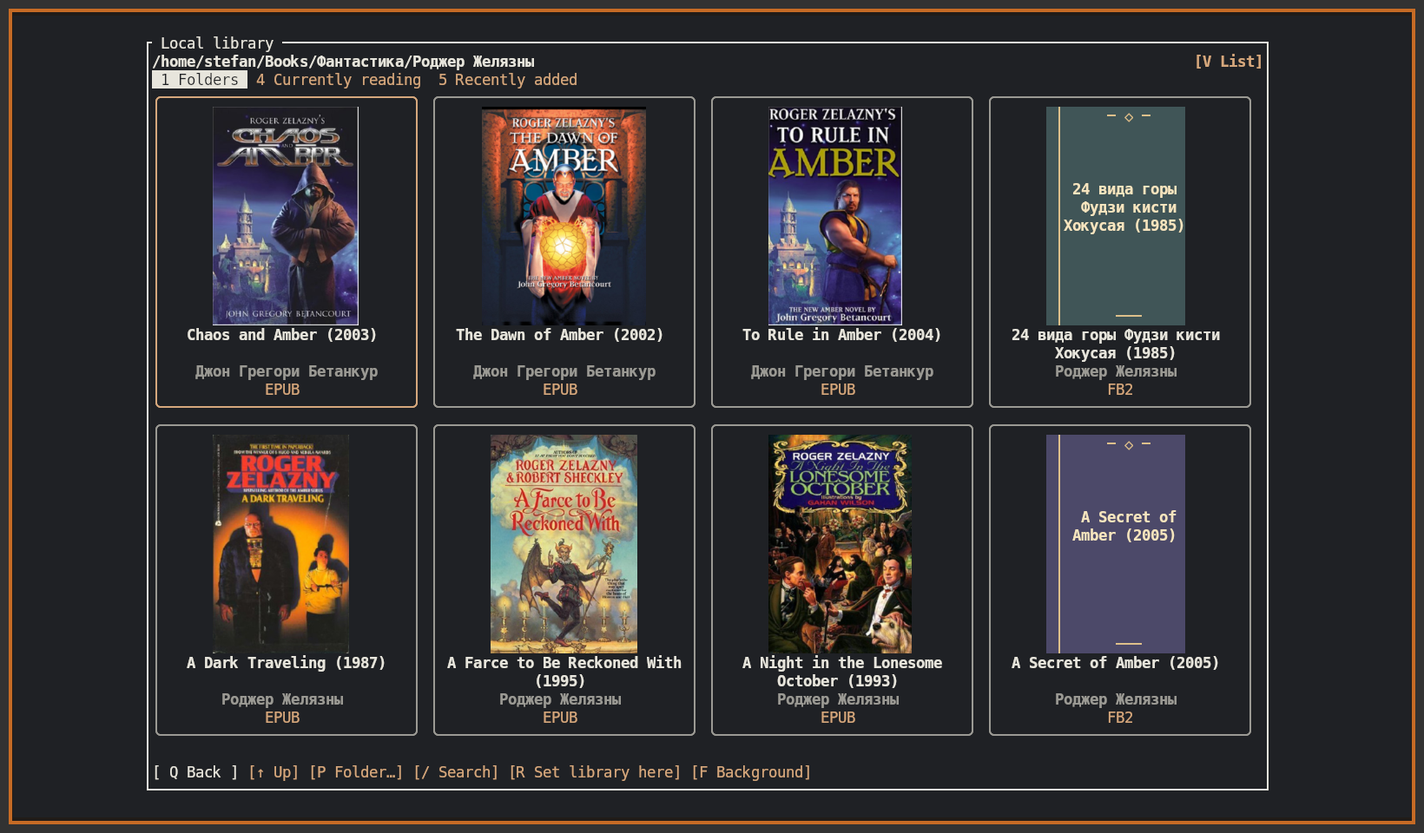
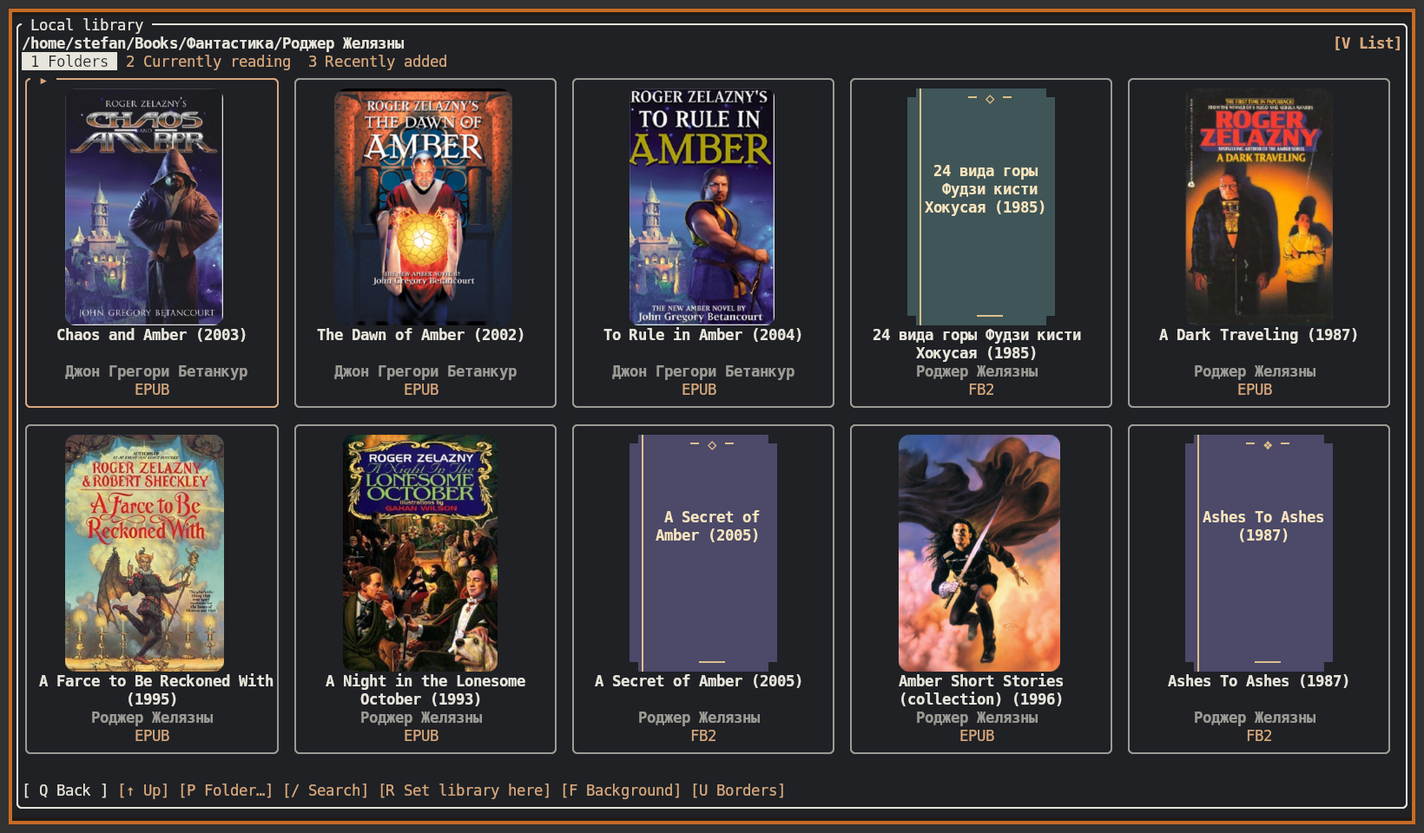
Publish English and Russian setup and reading guides with verified Kitty screens

diff --git a/README.md b/README.md
@@ -1,80 +1,153 @@
 # botui
 
-Терминальная читалка для **BookOrbit, OPDS и локальной папки**. Интерфейс на английском; названия книг, текст и оглавление остаются на языке издания.
+**English** · [Русский](README.ru.md)
 
-![Разворот с оглавлением в Kitty](docs/images/reader-contents.png)
+Read a book from your BookOrbit account, an OPDS catalog or a local folder in the terminal. EPUB and FB2 reflow into one page or a two-page spread. PDF and DjVu retain their original pages. Use the keyboard, click a cover or scroll with the mouse.
 
-## Запуск
+![BookOrbit dashboard with reading progress, recent additions and book covers in Kitty](docs/images/dashboard.png)
 
-```sh
-cargo build --release --locked -p botui
-./target/release/botui                         # выбрать источник мышью или клавиатурой
-./target/release/botui --library "$HOME/Books"  # запомнить корень локальной полки
-./target/release/botui --local                 # вернуться в сохранённую папку
-./target/release/botui examples/first-light.fb2
-./target/release/botui --server https://books.example.org
-./target/release/botui --opds https://books.example.org/opds
-```
+[Installation](#installation) · [First run](#first-run) · [BookOrbit](#bookorbit) · [Reading](#reading) · [Configuration](#configuration) · [Development](#development)
 
-Без заданного пути **Local library** сначала ищет сохранённую папку, затем `~/Books` и, наконец, текущую папку. **P Folder…** позволяет вставить путь; **R Set library here** запоминает папку, в которую вошли вручную. Приложение не меняет исходные книги. В `--opds` укажите адрес самой ленты, в `--server` — корень установки BookOrbit. Если mise не выбрал Cargo, для сборки можно использовать установленный через rustup `~/.cargo/bin/cargo`.
+## Installation
 
-## Полка
+Build from the repository root on Linux. You need Rust 1.99.1, a C compiler and a linker. The release build produces one executable for the host architecture at `target/release/botui`. The helpers for scanned documents are listed below.
 
-![Сетка с обложками и запасным переплётом в Kitty](docs/images/bookorbit-shelf.png)
+### With mise
 
-На полке BookOrbit **/** ищет по всему каталогу по названию или автору. **1 / 2 / 3** открывают все книги, библиотеки и коллекции; **4 Currently reading** — начатые книги с процентом; **5 Recently added** — последние поступления. Пустые личные коллекции не мешают открыть библиотеку. В режиме списка формат, название, автор и процент занимают выровненные колонки. **V** переключает список и сетку. Колесо, стрелки и PgUp / PgDn перемещают выбор; следующая порция данных подгружается автоматически. Enter или щелчок открывает карточку.
-
-В локальной папке **/** ищет по именам файлов и вложенных каталогов. **4** показывает историю выбранной библиотеки с процентами, **5** — книги по дате создания файла (если она недоступна, по дате изменения). В сетке используются обложки из EPUB/FB2 и первая страница PDF/DjVu. Если обложки нет, клиент рисует собственный цветной переплёт по принципу BookOrbit. В прямом Kitty отображаются растровые изображения; в обычном tmux или Alacritty — цветные полублоки.
-
-**BookOrbit:** пароль и токены остаются в памяти; обычный выход закрывает серверную сессию. **OPDS:** поддерживаются каталоги 1.x/Atom, независимый HTTP Basic через HTTPS, подразделы, автоматическая подгрузка, обложки, выбор файла и поиск, если каталог объявил его через Atom-шаблон или OpenSearch. Для обоих источников **D Save offline** сохраняет выбранное издание. Оно доступно с главного экрана через **Offline downloads** даже без входа.
-
-## Чтение
-
-| Действие | Клавиши |
-|---|---|
-| Одна страница / разворот, перелистнуть | 1 / 2; ← / →, PgUp / PgDn, колесо |
-| Открыть меню или вернуться к книге | M, Esc или щелчок по странице |
-| Скрыть интерфейс / вернуть левое оглавление | Z; в обычном режиме Tab переводит фокус между книгой и оглавлением |
-| Оглавление в отдельном окне; поиск по тексту | O; / |
-| Цвета; сплошной фон; поля текста | T; F; [ / ] |
-| Поставить или снять закладку; открыть закладки | B; G |
-| Заметка к текущему месту; список заметок; экспорт Markdown | N; A; E |
-| Ссылки, сноски и иллюстрации в EPUB/FB2 | I |
-| Вернуться после перехода по тексту / повторить переход | , / . |
-| Статистика этой книги на устройстве: число сеансов и время с открытой книгой | S |
-| Закрыть книгу | Q |
-
-Для EPUB/FB2 обе колонки разворота переразбиваются при изменении полей. В узком окне остаётся одна колонка. EPUB использует издательское оглавление EPUB 2 (NCX) или EPUB 3 (nav), при его отсутствии — заголовки. В оцифрованных книгах читалка может объединять последовательности печатных строк и разорванные слова. Поиск находит восстановленные слова, а исходные адреса для закладок сохраняются. В **I Links & illustrations** можно показать вложенную иллюстрацию, прочитать сноску, перейти по ссылке на главу или явно открыть сайт. Картинки открываются отдельно от текста и не занимают место в развороте. Для книг, где каждый исходный перенос важен, настройте `preserve_printed_lines`.
-
-**PDF и DjVu** открываются как настоящие страницы. В карточке формата нажмите **P Read**. Поддержаны разворот, увеличение (+ / −), сдвиг увеличенной страницы стрелками, переход по оглавлению или номеру страницы, поиск **/** по встроенному текстовому слою (**N** — следующее совпадение). Для перехода к номеру страницы нажмите **O**. **B / G** ставят и открывают локальные закладки, **I / A / E** добавляют заметку к странице, показывают список и экспортируют его в Markdown. **S** показывает статистику этой книги. OCR нет. Поля текста не меняют исходную вёрстку скана. В символьном терминале мелкий текст лучше открыть в графическом Kitty или через **X External viewer** в карточке локального файла. Для PDF нужны Poppler (`pdfinfo`, `pdftoppm`, для поиска `pdftotext`) либо Python 3 с Poppler GI и Cairo; для DjVu — DjVuLibre (`djvused`, `ddjvu`, для поиска `djvutxt`).
-
-## Настройки и данные
-
-Файл настроек создаётся при первом запуске: `$XDG_CONFIG_HOME/botui/config.json` (обычно `~/.config/botui/config.json`). Например:
-
-```json
-{
-  "library_root": "/home/stefan/Books",
-  "zen": false,
-  "local_grid": true,
-  "theme": "terminal",
-  "opaque_background": true,
-  "preserve_printed_lines": false
-}
-```
-
-Палитра терминала или схемы BookOrbit выбираются в **T Theme**. Параметр фона задаёт цвет ячеек; прозрачность, наложенная композитором на окно целиком, остаётся под управлением композитора. Адрес, имя пользователя и вид серверной полки находятся в `connection.json` рядом с основным конфигом. Символьные команды текстовой читалки переопределяются в `reader-keys.json`, например `{"n":"next","p":"previous","о":"contents"}`.
-
-Позиция, закладки и заметки на устройстве привязаны к содержимому файла. Для BookOrbit отдельно читаются позиция и личные текстовые закладки выбранного файла. Место чтения записывается по точному адресу, если со времени открытия оно не изменилось на сервере. Закладки без подходящего адреса остаются в списке с названием. При чтении скачанной книги новый прогресс ждёт следующего входа под тем же аккаунтом; конфликт не перезаписывает чужую позицию. Изменения OPDS и личные заметки остаются локальными. Постоянные загрузки и экспорт заметок находятся в `$XDG_DATA_HOME/botui/{downloads,exports}`; история чтения — в `$XDG_STATE_HOME/botui`.
-
-## Проверки
+The project includes a pinned Rust toolchain and build tasks. From a fresh checkout, run
 
 ```sh
-cargo fmt --check
-cargo clippy --workspace --all-targets --locked -- -D warnings
-cargo test --workspace --locked -- --include-ignored
-cargo build --workspace --locked
-for part in reader library shelf sources progress offline resources; do python3 "scripts/smoke-$part.py" || exit 1; done
+mise trust
+mise install
+mise run build
+./target/release/botui --help
+mise run install
 ```
 
-Сценарии используют частные tmux-сокеты, временные настройки и локальные HTTP-стенды. Для генерации тестового DjVu нужны также `c44` и `djvm`. Подробнее: [устройство](docs/architecture.md) и [проверенные сценарии и открытые пункты](docs/checklist.md).
+The last command installs the executable in `~/.local/bin`. Add that directory to your shell’s `PATH` to run `botui` from anywhere. To use another installation prefix, run `PREFIX=/path/to/prefix mise run install`. After updating the checkout, run the install task again.
+
+### With Cargo
+
+With Rust installed through rustup, the checked-in `rust-toolchain.toml` selects the compiler. To install the release executable directly into the same user bin directory, run
+
+```sh
+cargo install --path crates/app --locked --root "$HOME/.local"
+```
+
+For a build that stays in the checkout, use `cargo build --release --locked -p botui` and run `./target/release/botui`.
+
+### Document and terminal support
+
+| Format | Reading | Runtime tools |
+| --- | --- | --- |
+| EPUB, FB2 | Reflow, chapters, text search, links, footnotes and embedded illustrations | Built in |
+| PDF | Original pages, spreads, zoom, pan and text-layer search | Poppler utilities (`pdfinfo`, `pdftoppm`, `pdftotext`) or Python 3 with Poppler GI and Cairo |
+| DjVu | Original pages, spreads, zoom, pan and text-layer search | DjVuLibre (`djvused`, `ddjvu`, `djvutxt`) |
+
+Direct Kitty supports raster covers and page images. Terminals using the character-cell fallback, including ordinary tmux sessions, display color half-blocks. A graphics-capable terminal gives scanned text more detail. Image-only scans can be read visually. Search requires an existing text layer.
+
+## First run
+
+```sh
+botui                                      # choose a source
+botui --library "$HOME/Books"              # remember a local library folder
+botui --local                              # reopen the saved folder
+botui "./examples/first-light.fb2"         # open a file directly
+botui --server https://books.example.org   # BookOrbit installation root
+botui --opds https://books.example.org/opds
+botui --config-path                        # create or locate the config file
+```
+
+On the start screen, move the selection to see the description and controls for that source. Press **B** for BookOrbit, **L** for the local library, **P** for OPDS or **D** for offline downloads. Enter and a click also open the selection.
+
+![Source chooser with its keyboard guide](docs/images/start.png)
+
+**Local library** uses your saved root, then `~/Books`, then the current directory. Click **P Folder…** to paste a path. **R Set library here** remembers the folder currently on screen. **/** searches file and folder names recursively. **2** opens reading history with percentages and **3** shows recent files by creation time, falling back to modification time.
+
+## BookOrbit
+
+Choose **Connect to BookOrbit** to sign in. The dashboard shows continue reading, recent additions and discovery shelves. Reading streaks, yearly goals, challenges and Reading DNA appear when the server supplies those widgets. Select a book to choose its file. Use **0** to revisit and refresh the dashboard.
+
+| Key | Section | Key | Section |
+| --- | --- | --- | --- |
+| 0 | Dashboard | 4 | Libraries |
+| 1 | All books | 5 | Collections |
+| 2 | Currently reading | 6 | Authors |
+| 3 | Recently added | 7 | Series |
+
+**Authors** and **Series** show account-wide totals and the number of books in each entry. Open an author to see their books, or a series to read its volumes in server order. **/** searches the current directory in these two sections. On book shelves it searches the whole catalog by title or author, including books beyond the loaded rows.
+
+**V** switches between cover grid and list. **Tab / Shift+Tab** change sections in display order. Arrows, the wheel and Page Up / Page Down navigate a shelf. More items load as you scroll. Enter or a click opens the selection. **Esc** goes back.
+
+To keep an edition on this device, choose **D Save offline** on its file list. Open it again through **Offline downloads**. The next sign-in to the same account can send offline progress if the server position still matches. Text bookmarks come from the selected BookOrbit file. A bookmark whose location cannot be resolved stays visible by name.
+
+**OPDS** accepts an Atom catalog URL and optional HTTP Basic credentials over HTTPS. Follow navigation feeds, search when the catalog advertises Atom search or OpenSearch, and select a downloadable edition. OPDS reading positions and notes are stored locally.
+
+## Reading
+
+![Two text pages and the live page width and column gap controls](docs/images/reader-layout.png)
+
+| EPUB and FB2 action | Controls |
+| --- | --- |
+| Turn pages | Left / Right, Page Up / Page Down, mouse wheel |
+| One page / facing pages | **1 / 2** |
+| Open menu | **M**, Esc or click the page |
+| Adjust page width and column gap with a live preview | **W**, then click **− / +** on either row |
+| Adjust without opening the panel | **[** wider page, **]** narrower page. **{** smaller gap, **}** larger gap |
+| Zen mode / contents sidebar | **Z**. In the normal view, **Tab** changes focus |
+| Contents / search / links and illustrations | **O / slash / I** |
+| Theme / opaque background / border style | **T / F / U** |
+| Toggle bookmark / open bookmarks | **B / G** |
+| Write a passage note / list notes / export Markdown | **N / A / E** |
+| Jump back / forward | **, / .** |
+| Book statistics / close | **S / Q** |
+
+Width and spacing are in terminal cells. Extra room sits outside the spread. A narrow window shows one page. Resize or adjust either value while reading to reflow both pages around the current text position. In scanned EPUB/FB2 text, botui can join printed line breaks and split words. Set `preserve_printed_lines = true` for editions where those breaks are intentional.
+
+For **PDF and DjVu**, use **P Read pages** on the file card, **1 / 2** for a page or spread and **+ / −** to zoom. Arrows pan while zoomed. **O** opens page navigation, **/** finds text and **N** advances to the next match. **B / G** manage page bookmarks and **I / A / E** manage and export page notes. The text reader’s width settings apply to reflowable books.
+
+## Configuration
+
+Run `botui --config-path` to print the exact path. The default is `~/.config/botui/config.toml`. The same TOML file holds the library root, interface, reader bindings and BookOrbit account. The default UI language is English. See the [commented configuration](config.example.toml).
+
+```toml
+library_root = "/path/to/books"
+theme = "terminal"
+borders = "rounded"        # rounded, square, none
+opaque_background = false
+page_width = 78
+column_gap = 4
+
+[bookorbit]
+server = "https://books.example.org"
+username = "reader"
+password_command = ["pass", "show", "bookorbit"]
+# password = "your password"
+
+[keys]
+n = "next"
+p = "previous"
+```
+
+To use a password manager, set `password_command` to an argument array as above. A string runs through `sh -c`. The command must exit successfully and return the password on the first output line. For a stored plaintext password, use `password`. Omit both to type the password at login. A typed password takes precedence, followed by the command, then the stored password. Saved credentials are bound to the configured server and username. Tokens stay in memory and normal exit closes the server session.
+
+The app creates its config with mode `0600`. On upgrade it imports the earlier JSON preferences, connection and reader bindings, preserving their originals under `$XDG_STATE_HOME/botui/config-backup`. UI changes preserve unrelated TOML values and comments. The interface can use the terminal palette or BookOrbit reader themes. **F** sets the background of terminal cells. Whole-window opacity is controlled by the terminal or compositor.
+
+| Data | Default location |
+| --- | --- |
+| Config | `~/.config/botui/config.toml` |
+| Positions, local bookmarks, notes and reading history | `~/.local/state/botui/` |
+| Offline books and Markdown exports | `~/.local/share/botui/downloads/`, `~/.local/share/botui/exports/` |
+
+The XDG config, state and data environment variables override those defaults. Local reading records use a content hash, so moving a file preserves its position.
+
+## Development
+
+```sh
+mise run check
+mise run smoke
+```
+
+`check` runs rustfmt, Clippy and the workspace tests. `smoke` builds the debug binaries and exercises real terminal sessions with private tmux sockets, temporary configuration and loopback HTTP fixtures. It requires Python 3.11+, tmux, PDF and DjVu rendering support, and the DjVu fixture tools `c44` and `djvm`.
+
+The Rust workspace separates the BookOrbit and OPDS adapters, ebook parsing, text layout, fixed-page rendering, local storage and the terminal application. The repository also includes [architecture notes](docs/architecture.md) and the [verification checklist](docs/checklist.md), both in Russian.

diff --git a/README.ru.md b/README.ru.md
@@ -1,0 +1,153 @@
+# botui
+
+[English](README.md) · **Русский**
+
+Терминальная читалка для BookOrbit, каталогов OPDS и локальных книг. EPUB и FB2 можно читать по одной странице или разворотом. PDF и DjVu открываются в исходной вёрстке. Полкой и читалкой можно управлять клавиатурой и мышью.
+
+![Дашборд BookOrbit с текущими книгами, последними поступлениями и обложками в Kitty](docs/images/dashboard.png)
+
+[Установка](#установка) · [Первый запуск](#первый-запуск) · [Полка BookOrbit](#полка-bookorbit) · [Чтение](#чтение) · [Настройки](#настройки) · [Разработка](#разработка)
+
+## Установка
+
+Команды выполняются из корня репозитория в Linux. Для сборки нужны Rust 1.99.1, компилятор C и компоновщик. Готовый исполняемый файл для архитектуры этой машины появится в `target/release/botui`. Для сканов нужны дополнительные программы из таблицы ниже.
+
+### Через mise
+
+В репозитории закреплена версия Rust и описаны задачи сборки. В новой копии проекта выполните
+
+```sh
+mise trust
+mise install
+mise run build
+./target/release/botui --help
+mise run install
+```
+
+Последняя команда устанавливает читалку в `~/.local/bin`. Если этот каталог есть в `PATH`, команду `botui` можно вызывать из любой папки. Другой префикс установки задаётся через `PREFIX=/путь/к/префиксу mise run install`. После обновления исходников достаточно снова выполнить задачу установки.
+
+### Через Cargo
+
+Если Rust установлен через rustup, файл `rust-toolchain.toml` выберет нужную версию. Для установки в пользовательский каталог выполните
+
+```sh
+cargo install --path crates/app --locked --root "$HOME/.local"
+```
+
+Если нужен только бинарник в каталоге проекта, выполните `cargo build --release --locked -p botui` и запускайте `./target/release/botui`.
+
+### Форматы и терминалы
+
+| Формат | Возможности | Что установить |
+| --- | --- | --- |
+| EPUB, FB2 | Переразбивка текста, оглавление, поиск, ссылки, сноски и иллюстрации | Обработка встроена в читалку |
+| PDF | Исходные страницы, разворот, увеличение, перемещение по странице и поиск в текстовом слое | Утилиты Poppler (`pdfinfo`, `pdftoppm`, `pdftotext`) или Python 3 с Poppler GI и Cairo |
+| DjVu | Исходные страницы, разворот, увеличение, перемещение по странице и поиск в текстовом слое | DjVuLibre (`djvused`, `ddjvu`, `djvutxt`) |
+
+При прямом запуске в Kitty обложки и страницы выводятся как растровые изображения. В обычном tmux и терминалах с символьным выводом используются цветные полублоки. На графическом выводе лучше видны мелкие буквы сканов. Для поиска по скану нужен готовый текстовый слой.
+
+## Первый запуск
+
+```sh
+botui                                       # выбрать источник
+botui --library "$HOME/Books"               # запомнить папку библиотеки
+botui --local                               # вернуться в неё
+botui "./examples/first-light.fb2"          # открыть файл напрямую
+botui --server https://books.example.org    # корень установки BookOrbit
+botui --opds https://books.example.org/opds
+botui --config-path                         # создать конфиг и вывести его путь
+```
+
+На стартовом экране перемещайте выделение, чтобы увидеть описание выбранного источника и подсказки. **B** открывает BookOrbit, **L** — локальную папку, **P** — OPDS, **D** — сохранённые загрузки. Выбранный пункт также открывается клавишей Enter или щелчком.
+
+![Выбор источника и подсказки по управлению](docs/images/start.png)
+
+**Local library** открывает сохранённую папку, затем пробует `~/Books` и текущий каталог. Через **P Folder…** можно вставить путь. Кнопка **R Set library here** запоминает текущую папку как корень. **/** ищет по именам файлов и подпапок. **2** показывает историю чтения с процентами, **3** — книги по дате создания файла, а при её отсутствии по дате изменения.
+
+## Полка BookOrbit
+
+Выберите **Connect to BookOrbit** и войдите. На дашборде доступны продолжение чтения, последние поступления и рекомендации. Когда сервер возвращает соответствующие виджеты, появятся также серия дней чтения, годовая цель, задание месяца и Reading DNA. Щелчок по обложке открывает выбор файла издания. Нажмите **0**, чтобы вернуться на дашборд и обновить данные.
+
+| Клавиша | Раздел | Клавиша | Раздел |
+| --- | --- | --- | --- |
+| 0 | Dashboard — главная | 4 | Libraries — библиотеки |
+| 1 | All books — все книги | 5 | Collections — коллекции |
+| 2 | Currently reading — читаю сейчас | 6 | Authors — авторы |
+| 3 | Recently added — последние поступления | 7 | Series — серии |
+
+Рядом с **Authors** и **Series** указано полное количество авторов и серий, доступных аккаунту. Внутри каждого раздела видно число книг у автора или в серии. Список томов учитывает порядок серии на сервере. **/** ищет по авторам или сериям внутри соответствующего справочника. На книжной полке **/** ищет по названию или автору по всему серверному каталогу.
+
+**V** переключает сетку и список. **Tab / Shift+Tab** проходят по разделам в том же порядке, что и цифры. Книги листаются стрелками, колесом, Page Up / Page Down. Следующие записи загружаются автоматически. Enter или щелчок открывают выбранное, **Esc** возвращает назад.
+
+Выберите **D Save offline** в списке файлов книги, чтобы сохранить издание на устройстве. Скачать один раз и читать без входа можно через **Offline downloads**. При следующем входе под тем же аккаунтом читалка отправит накопленную позицию, если другой клиент ещё не изменил её. Текстовые закладки BookOrbit относятся к выбранному файлу. Если адрес закладки не удаётся сопоставить, её название остаётся в списке.
+
+**OPDS** принимает адрес каталога Atom и при необходимости учётные данные HTTP Basic через HTTPS. Доступны подразделы, выбор файла, загрузки и поиск, если каталог объявил Atom-шаблон или OpenSearch. Прогресс и заметки OPDS хранятся на устройстве.
+
+## Чтение
+
+![Разворот и панель независимой настройки ширины страницы и расстояния между колонками](docs/images/reader-layout.png)
+
+| EPUB и FB2 | Управление |
+| --- | --- |
+| Перелистнуть | Стрелки влево / вправо, Page Up / Page Down, колесо |
+| Одна страница / разворот | **1 / 2** |
+| Меню | **M**, Esc или щелчок по странице |
+| Настроить разворот с предпросмотром | **W**, затем **− / +** у строки Page width или Column gap |
+| Настроить прямо во время чтения | **[** шире страница, **]** уже. **{** меньше промежуток, **}** больше |
+| Дзен / обычный режим с оглавлением | **Z**. В обычном режиме **Tab** меняет фокус |
+| Оглавление / поиск / ссылки и иллюстрации | **O / клавиша «/» / I** |
+| Тема / непрозрачный фон / рамки | **T / F / U** |
+| Поставить или снять закладку / открыть закладки | **B / G** |
+| Записать заметку / открыть заметки / экспортировать Markdown | **N / A / E** |
+| Вернуться после перехода / повторить переход | **, / .** |
+| Статистика книги / закрыть книгу | **S / Q** |
+
+Ширина страницы и промежуток задаются в ячейках терминала. Свободное место распределяется по краям разворота. Когда окно становится слишком узким для двух колонок, остаётся одна страница. При изменении ширины или расстояния читалка сохраняет позицию в тексте. В EPUB и FB2 с печатными переносами она умеет соединять разорванные строки и слова. Для книг, где исходные переносы важны, укажите `preserve_printed_lines = true`.
+
+В **PDF и DjVu** нажмите **P Read pages** в карточке файла. **1 / 2** переключают страницу и разворот, **+ / −** меняют масштаб, стрелки сдвигают увеличенную страницу. **O** открывает переход по страницам, **/** ищет по текстовому слою, **N** переходит к следующему совпадению. **B / G** управляют закладками, **I / A / E** — заметками и экспортом. Настройки ширины текста применяются к EPUB и FB2.
+
+## Настройки
+
+Команда `botui --config-path` выводит точный путь. По умолчанию это `~/.config/botui/config.toml`. В одном файле находятся локальная папка, оформление, привязки клавиш и подключение к BookOrbit. Интерфейс по умолчанию английский. См. [пример со всеми настройками](config.example.toml).
+
+```toml
+library_root = "/путь/к/книгам"
+theme = "terminal"
+borders = "rounded"        # rounded, square или none
+opaque_background = false
+page_width = 78
+column_gap = 4
+
+[bookorbit]
+server = "https://books.example.org"
+username = "reader"
+password_command = ["pass", "show", "bookorbit"]
+# password = "ваш пароль"
+
+[keys]
+n = "next"
+p = "previous"
+```
+
+Для менеджера паролей используйте `password_command`. Массив запускает команду с указанными аргументами. Строка выполняется через `sh -c`. Команда должна успешно завершиться и выдать пароль первой строкой. Для хранения открытым текстом есть поле `password`. Если оба поля пусты, пароль вводится при входе. Приоритет имеет введённый пароль, затем команда, затем пароль из конфига. Сохранённые данные привязаны к адресу сервера и имени пользователя. Токены находятся в памяти, обычный выход завершает серверную сессию.
+
+Читалка создаёт файл с правами `0600`. При обновлении она переносит старые настройки, подключение и привязки из JSON в TOML и сохраняет оригиналы в `$XDG_STATE_HOME/botui/config-backup`. Изменения через интерфейс сохраняют комментарии и посторонние ключи. Доступны палитра терминала и схемы чтения BookOrbit. **F** задаёт фон ячеек. Прозрачность всего окна зависит от терминала и композитора.
+
+| Данные | Путь по умолчанию |
+| --- | --- |
+| Конфигурация | `~/.config/botui/config.toml` |
+| Позиции, локальные закладки, заметки и история | `~/.local/state/botui/` |
+| Скачанные книги и экспорт заметок | `~/.local/share/botui/downloads/`, `~/.local/share/botui/exports/` |
+
+Каталоги можно переопределить переменными XDG. Локальные позиции привязаны к содержимому файла. Переименование и перенос книги сохраняют место чтения.
+
+## Разработка
+
+```sh
+mise run check
+mise run smoke
+```
+
+Первая задача проверяет форматирование, запускает Clippy и тесты Rust. Вторая собирает отладочные бинарники и проходит пользовательские сценарии в изолированных сеансах tmux с временной конфигурацией и локальными HTTP-стендами. Нужны Python 3.11+, tmux, средства чтения PDF и DjVu, а также `c44` и `djvm` для создания тестовых DjVu.
+
+В рабочем пространстве Rust выделены адаптеры BookOrbit и OPDS, разбор книжных форматов, разметка текста, отрисовка сканов, хранение данных и терминальный клиент. Подробнее в [описании архитектуры](docs/architecture.md) и [перечне проверяемых сценариев](docs/checklist.md).

diff --git a/docs/architecture.md b/docs/architecture.md
@@ -10,7 +10,7 @@
 | Книжные форматы (`crates/formats`) | Определить содержимое EPUB, найти OPF и пройти spine в порядке чтения, преобразовать главы в текстовые блоки | Работаем с настоящим ZIP и XHTML (zip, roxmltree, scraper). FB2 использует отдельный XML-разбор: заголовки и абзацы основного тела, кодировки UTF-8/UTF-16 и Windows-1251. Из Bookokrat берём ориентиры по качеству отображения, из repy — примеры работы с FB2. Полного HTML/CSS-рендера в первом срезе нет. |
 | Ядро чтения (`crates/core`) | Логическое место в книге, переносы по ширине терминальных ячеек, страницы, разворот | Своё небольшое ядро, тестируется без терминала. Разворот — две соседние страницы одного потока. |
 | Хранение (`crates/store`) | Место чтения локального документа, выбранный вид и палитра | Отдельная атомарно заменяемая запись на SHA-256 файла. Переименование её не теряет; разные файлы одного издания пока имеют разные записи. |
-| Родной источник (`crates/bookorbit`) | Вызовы API, серверные идентификаторы и ответы об ошибках | Вход, общий каталог, библиотеки, личные коллекции, страницы списка книг, получение выбранного файла и миниатюры. Используется экраном полки и отдельной диагностической командой. |
+| Родной источник (`crates/bookorbit`) | Вызовы API, серверные идентификаторы и ответы об ошибках | Вход, дашборд, справочники авторов и серий, общий каталог, библиотеки, личные коллекции, получение выбранного файла и миниатюры. Справочники возвращают total для всего результата. Книги серии запрашиваются с сортировкой seriesIndex. Используется экраном полки и отдельной диагностической командой. |
 | OPDS (`crates/opds`) | Вход в каталог, ленты навигации и выдачи, несколько ссылок на форматы, постраничная загрузка и необязательный поиск | Самостоятельный адаптер. Модель [repy](https://github.com/newptcai/repy/blob/0a3c3a2063af87fd5d0824cb4588ccfd043cdcf4/src/opds.rs) полезна как пример; основу контракта определяет [спецификация OPDS](https://specs.opds.io/opds-1.2). |
 | Фиксированные страницы (`crates/fixed`, `app/src/scan`) | PDF/DjVu → изображение страницы заданного размера; затем передача изображения терминалу | Poppler и DjVuLibre в отдельном процессе. Ориентир по фоновым запросам и работе с Kitty — реализация [Bookokrat](https://github.com/bugzmanov/bookokrat/tree/v0.3.14/src/pdf). На подходящих версиях BookOrbit [страницы DjVu можно получать как WebP](https://github.com/bookorbit/bookorbit/blob/main/docs/DJVU_READER.md). Для локального файла сервер не нужен. |
 

diff --git a/docs/checklist.md b/docs/checklist.md
@@ -6,6 +6,9 @@
 |---|---|
 | Вход BookOrbit с нулём личных коллекций; выбор библиотеки, книги, файла и возврат назад | smoke-shelf |
 | Поиск книги за пределами первой выдачи; текущие с процентом; недавние; непрерывный список и сетка | smoke-shelf |
+| Дашборд после входа, открытие полки, поиск автора и серии за пределами первой порции, счётчики до входа в раздел, порядок томов | smoke-shelf, отдельный Kitty |
+| Миграция в TOML, одновременный запуск, открытый пароль и внешняя команда, изоляция аккаунта | smoke-config |
+| Две независимые настройки разворота, выравнивание клавиш меню, скруглённые и прямые рамки, режим без рамок | smoke-reader, smoke-library, тест геометрии; Chaos and Amber в Kitty |
 | Вставить путь к папке мышью, найти книгу во вложенной папке, сменить вид и перезапустить | smoke-library; отдельно реальная папка с «Знаком Единорога» |
 | Настройки фона, темы, обычного чтения, Zen, мышь и сохранение места | smoke-reader; Kitty с обычной и чистой страницами |
 | Одна страница и разворот; обе колонки реагируют на поля; поиск по восстановленному слову не ломает исходные координаты | botui-core и реальный EPUB о Гесаре |
